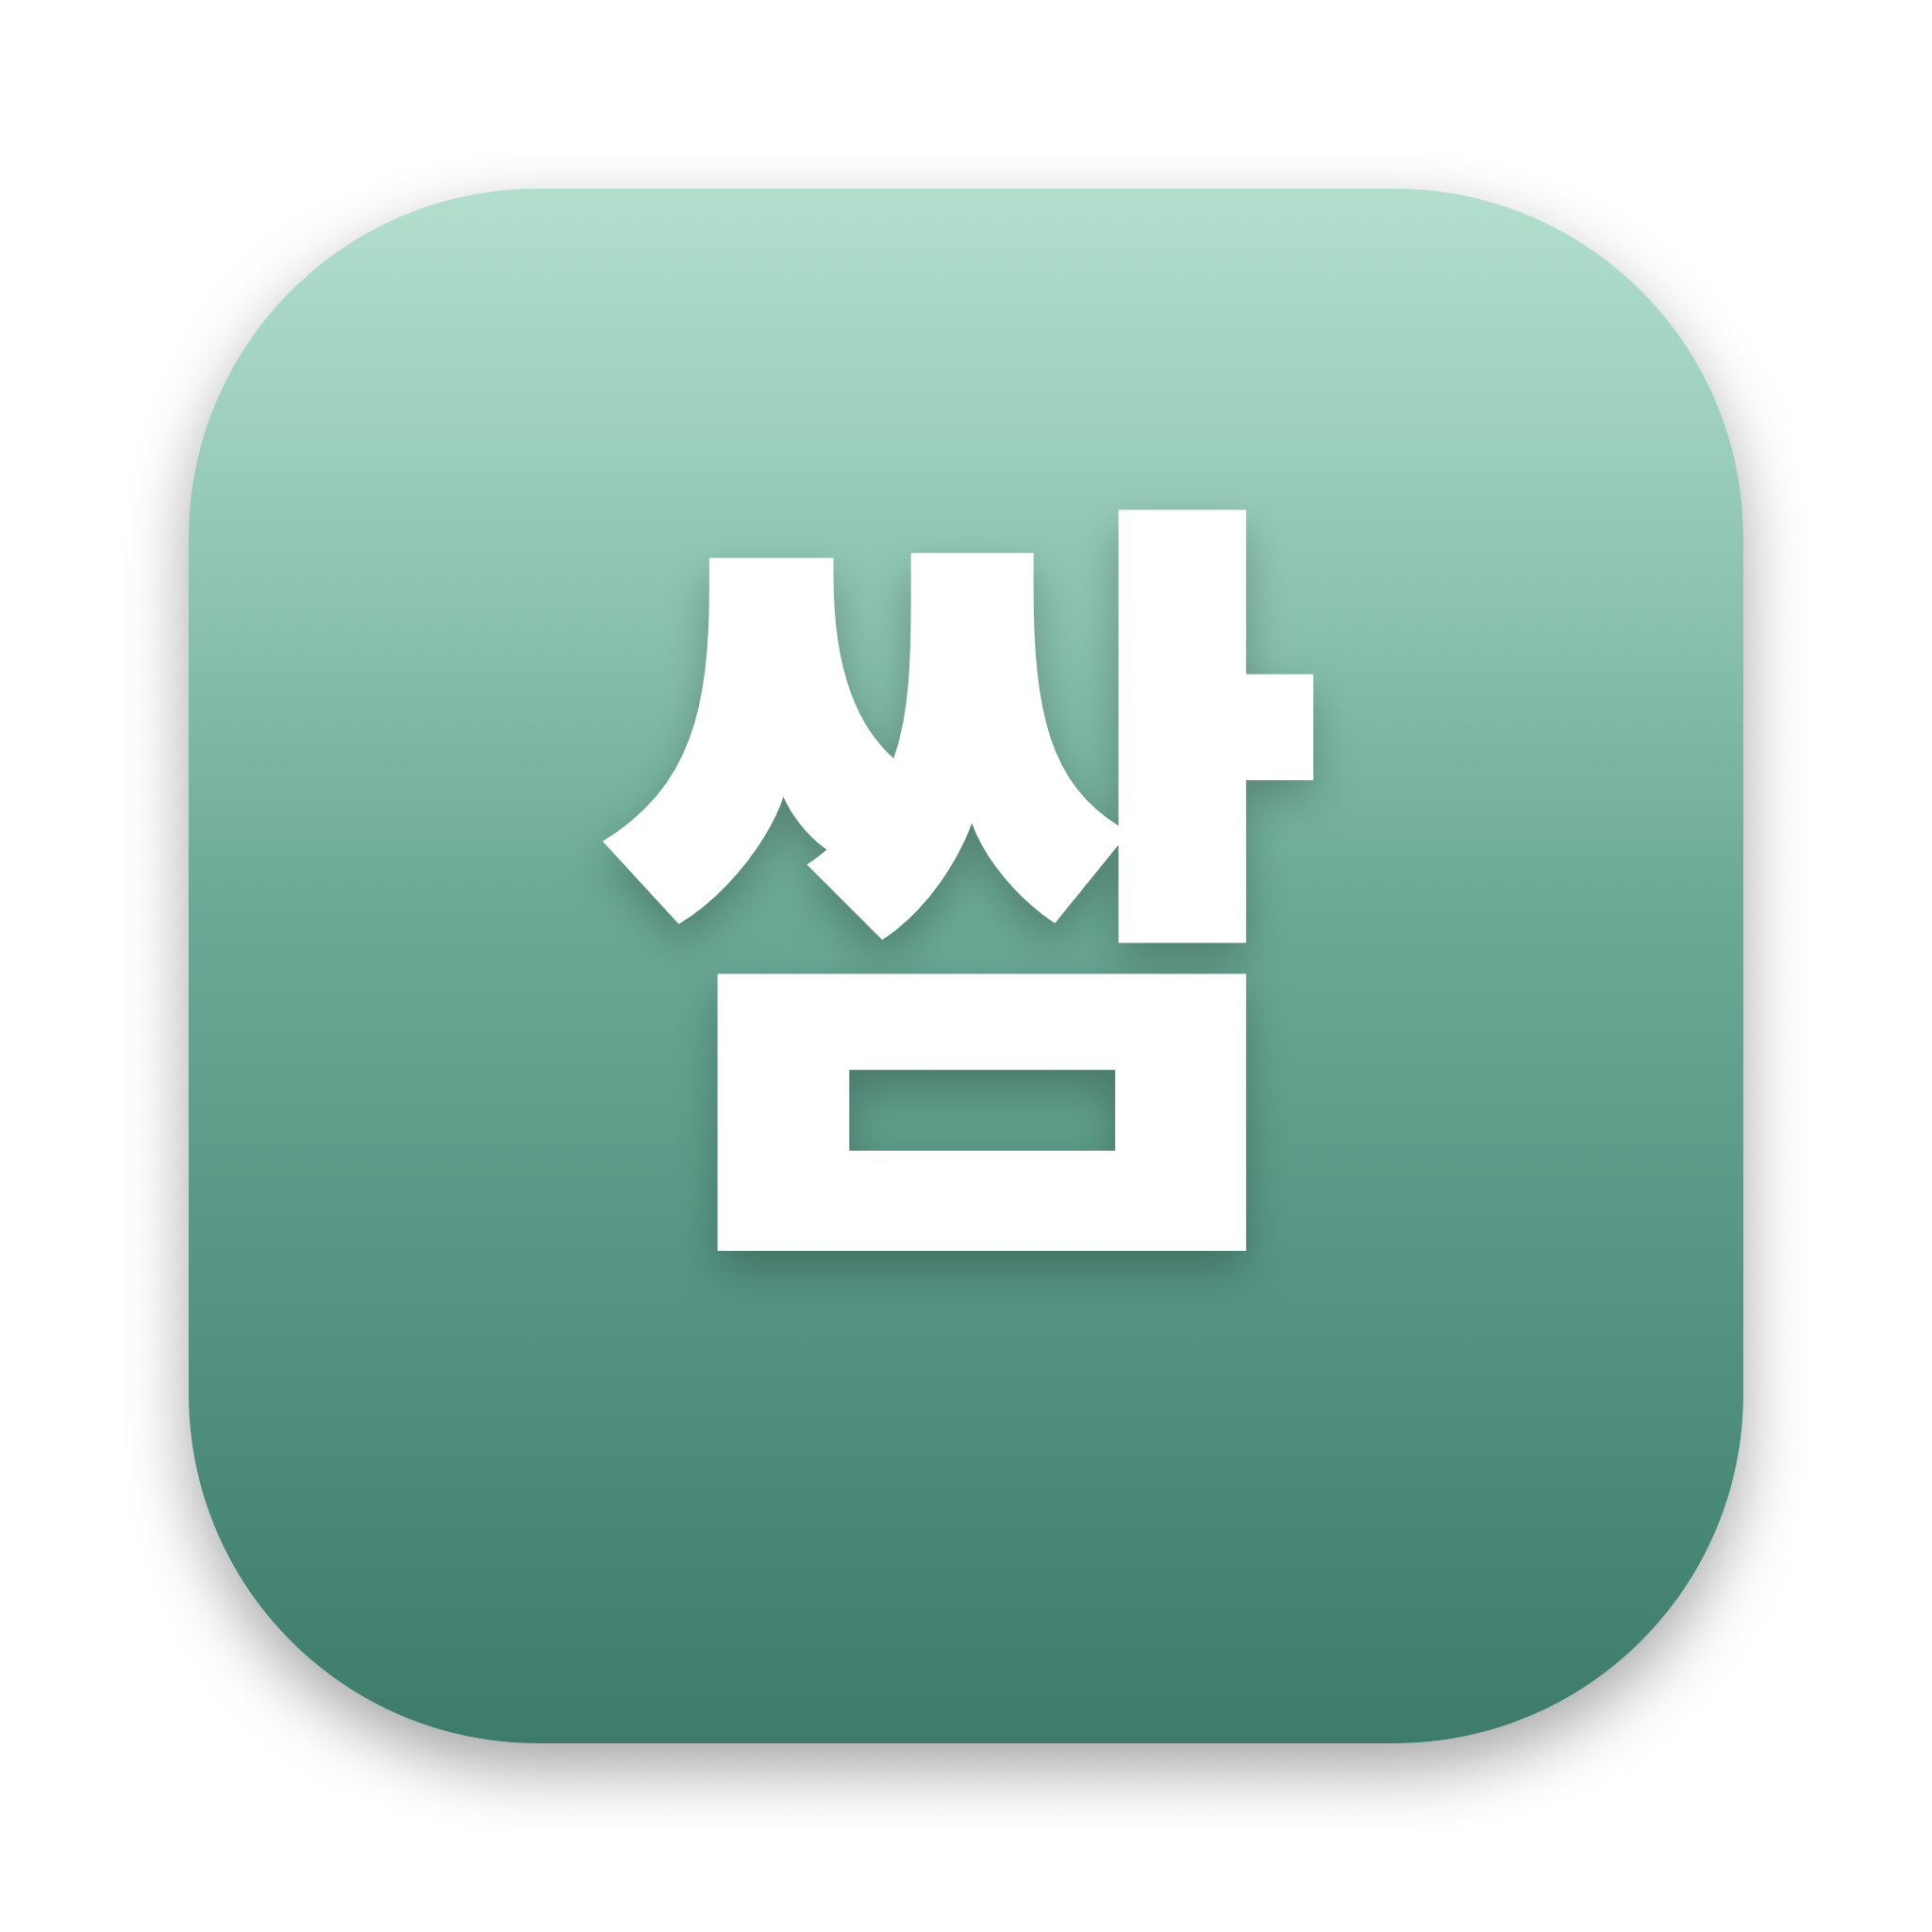
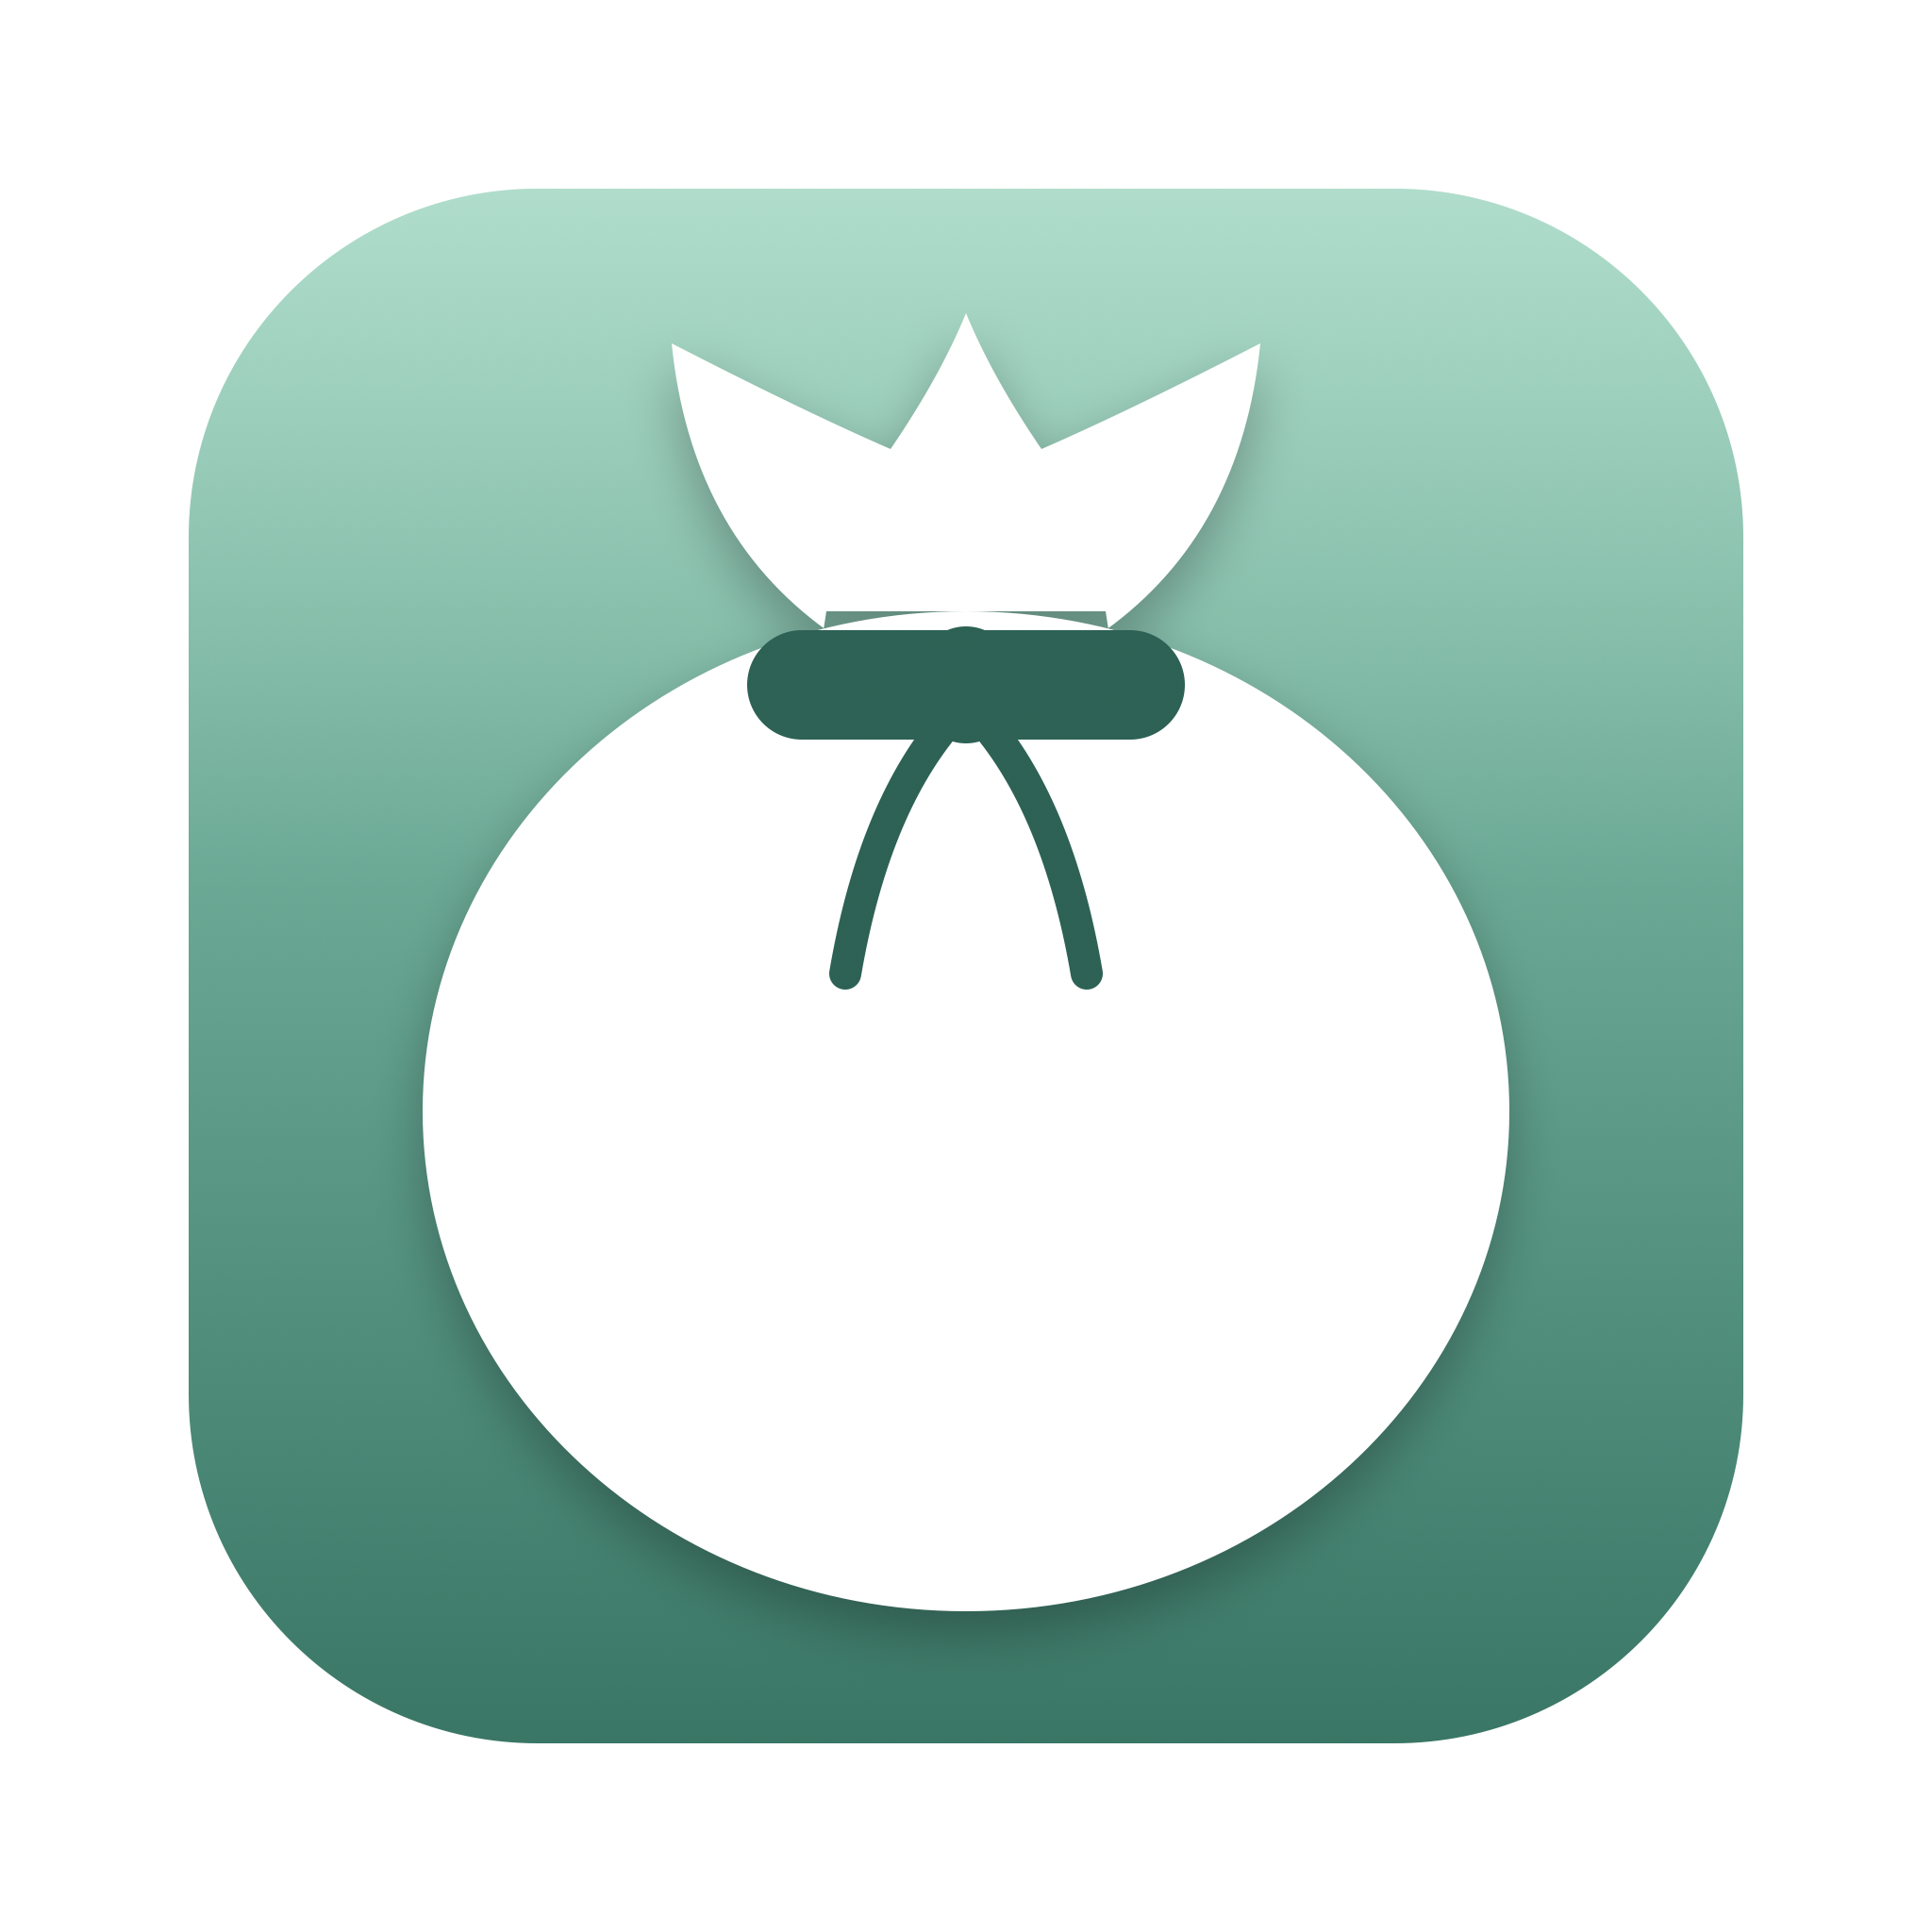
feat: 복주머니 아이콘 리디자인 + 메뉴바 커스텀 글리프 + /Applications 설치
- 앱 아이콘을 '쌈' 글자에서 복주머니 실루엣으로 교체 (흰 주머니 + 진청자 매듭끈)
- 메뉴바 아이콘: 동일 실루엣의 코드 드로잉 템플릿 이미지 (라이트/다크 자동)
- bundle.sh 가 빌드 후 /Applications/쌈지.app 으로 자동 설치

Changed region(s): [[0.2188, 0.1562, 0.7812, 0.8438], [0.0625, 0.2188, 0.9375, 0.9375]]

diff --git a/scripts/make-icon.swift b/scripts/make-icon.swift
@@ -1,34 +1,47 @@
 #!/usr/bin/swift
-// 쌈지 앱 아이콘 생성기 — 청자색 그라디언트 스퀘어클 + "쌈"
-// 사용: swift scripts/make-icon.swift  (Assets/AppIcon.icns 생성)
+// 쌈지 앱 아이콘 생성기 — 청자색 그라디언트 스퀘어클 + 흰 복주머니(쌈지) 실루엣
+// 사용: swift scripts/make-icon.swift  (Assets/icon_1024.png 생성)
 import AppKit
 
 let canvas: CGFloat = 1024
+
+/// 복주머니 몸통 + 주름 경로 (좌표계: y-up, 1024 기준)
+func pouchBodyPath() -> CGMutablePath {
+    let path = CGMutablePath()
+    // 몸통: 넉넉한 타원
+    path.addEllipse(in: CGRect(x: 224, y: 170, width: 576, height: 530))
+    // 목 연결부
+    path.move(to: CGPoint(x: 424, y: 610))
+    path.addLine(to: CGPoint(x: 600, y: 610))
+    path.addLine(to: CGPoint(x: 586, y: 700))
+    path.addLine(to: CGPoint(x: 438, y: 700))
+    path.closeSubpath()
+    // 입구 주름 (다섯 갈래 부채)
+    path.move(to: CGPoint(x: 438, y: 690))
+    path.addQuadCurve(to: CGPoint(x: 356, y: 842), control: CGPoint(x: 366, y: 742))
+    path.addQuadCurve(to: CGPoint(x: 472, y: 786), control: CGPoint(x: 426, y: 806))
+    path.addQuadCurve(to: CGPoint(x: 512, y: 858), control: CGPoint(x: 498, y: 824))
+    path.addQuadCurve(to: CGPoint(x: 552, y: 786), control: CGPoint(x: 526, y: 824))
+    path.addQuadCurve(to: CGPoint(x: 668, y: 842), control: CGPoint(x: 598, y: 806))
+    path.addQuadCurve(to: CGPoint(x: 586, y: 690), control: CGPoint(x: 658, y: 742))
+    path.closeSubpath()
+    return path
+}
 
 func renderIcon() -> NSImage {
     let image = NSImage(size: NSSize(width: canvas, height: canvas))
     image.lockFocus()
     guard let ctx = NSGraphicsContext.current?.cgContext else { fatalError("no context") }
 
-    // 최신 macOS 아이콘 관례: 캔버스보다 살짝 작은 라운드 사각형
     let rect = CGRect(x: 100, y: 100, width: canvas - 200, height: canvas - 200)
     let squircle = CGPath(roundedRect: rect, cornerWidth: 185, cornerHeight: 185, transform: nil)
-
-    // 그림자
-    ctx.saveGState()
-    ctx.setShadow(offset: CGSize(width: 0, height: -14), blur: 36,
-                  color: NSColor.black.withAlphaComponent(0.35).cgColor)
-    ctx.addPath(squircle)
-    ctx.setFillColor(NSColor.white.cgColor)
-    ctx.fillPath()
-    ctx.restoreGState()
 
     ctx.addPath(squircle)
     ctx.clip()
 
     // 청자색 수직 그라디언트
     let top = NSColor(calibratedRed: 0.45, green: 0.80, blue: 0.67, alpha: 1)
-    let bottom = NSColor(calibratedRed: 0.11, green: 0.42, blue: 0.34, alpha: 1)
+    let bottom = NSColor(calibratedRed: 0.10, green: 0.40, blue: 0.32, alpha: 1)
     let gradient = CGGradient(
         colorsSpace: CGColorSpaceCreateDeviceRGB(),
         colors: [top.cgColor, bottom.cgColor] as CFArray,
@@ -41,10 +54,10 @@ func renderIcon() -> NSImage {
         options: []
     )
 
-    // 상단 하이라이트 (유리 느낌)
+    // 상단 하이라이트
     let highlight = CGGradient(
         colorsSpace: CGColorSpaceCreateDeviceRGB(),
-        colors: [NSColor.white.withAlphaComponent(0.28).cgColor,
+        colors: [NSColor.white.withAlphaComponent(0.25).cgColor,
                  NSColor.white.withAlphaComponent(0.0).cgColor] as CFArray,
         locations: [0, 1]
     )!
@@ -55,22 +68,36 @@ func renderIcon() -> NSImage {
         options: []
     )
 
-    // "쌈" 글자 (미세한 그림자)
-    let font = NSFont(name: "AppleSDGothicNeo-Heavy", size: 440)
-        ?? NSFont(name: "AppleSDGothicNeo-Bold", size: 440)
-        ?? NSFont.boldSystemFont(ofSize: 440)
-    let shadow = NSShadow()
-    shadow.shadowColor = NSColor.black.withAlphaComponent(0.25)
-    shadow.shadowOffset = NSSize(width: 0, height: -10)
-    shadow.shadowBlurRadius = 24
-    let attributes: [NSAttributedString.Key: Any] = [
-        .font: font,
-        .foregroundColor: NSColor.white,
-        .shadow: shadow,
-    ]
-    let text = NSAttributedString(string: "쌈", attributes: attributes)
-    let textSize = text.size()
-    text.draw(at: NSPoint(x: (canvas - textSize.width) / 2, y: (canvas - textSize.height) / 2 + 14))
+    // 주머니 그림자 + 흰 실루엣
+    ctx.saveGState()
+    ctx.setShadow(offset: CGSize(width: 0, height: -12), blur: 30,
+                  color: NSColor.black.withAlphaComponent(0.28).cgColor)
+    ctx.addPath(pouchBodyPath())
+    ctx.setFillColor(NSColor.white.cgColor)
+    ctx.fillPath()
+    ctx.restoreGState()
+
+    // 묶는 끈 (진한 청자색 밴드 + 매듭 + 늘어진 끈)
+    let deep = NSColor(calibratedRed: 0.07, green: 0.32, blue: 0.26, alpha: 1)
+    ctx.setFillColor(deep.cgColor)
+    let band = CGPath(roundedRect: CGRect(x: 396, y: 632, width: 232, height: 58),
+                      cornerWidth: 29, cornerHeight: 29, transform: nil)
+    ctx.addPath(band)
+    ctx.fillPath()
+
+    // 매듭
+    ctx.fillEllipse(in: CGRect(x: 484, y: 630, width: 56, height: 62))
+
+    // 늘어진 끈 두 가닥
+    ctx.setStrokeColor(deep.cgColor)
+    ctx.setLineWidth(17)
+    ctx.setLineCap(.round)
+    ctx.move(to: CGPoint(x: 498, y: 636))
+    ctx.addQuadCurve(to: CGPoint(x: 448, y: 508), control: CGPoint(x: 462, y: 590))
+    ctx.strokePath()
+    ctx.move(to: CGPoint(x: 526, y: 636))
+    ctx.addQuadCurve(to: CGPoint(x: 576, y: 508), control: CGPoint(x: 562, y: 590))
+    ctx.strokePath()
 
     image.unlockFocus()
     return image
@@ -82,8 +109,6 @@ guard let tiff = icon.tiffRepresentation,
       let png = rep.representation(using: .png, properties: [:]) else {
     fatalError("PNG 인코딩 실패")
 }
-
-let outDir = URL(fileURLWithPath: "Assets/AppIcon.iconset", isDirectory: true)
-try? FileManager.default.createDirectory(at: outDir, withIntermediateDirectories: true)
+try? FileManager.default.createDirectory(atPath: "Assets", withIntermediateDirectories: true)
 try png.write(to: URL(fileURLWithPath: "Assets/icon_1024.png"))
-print("✅ Assets/icon_1024.png 생성")
+print("✅ Assets/icon_1024.png 생성 (복주머니)")

diff --git a/Sources/Ssamji/MenuBarIcon.swift b/Sources/Ssamji/MenuBarIcon.swift
@@ -1,0 +1,49 @@
+import AppKit
+
+/// 메뉴바용 복주머니 템플릿 아이콘 — scripts/make-icon.swift 의 실루엣과 동일한 경로 (수정 시 함께 갱신)
+@MainActor
+enum MenuBarIcon {
+    static let image: NSImage = {
+        let image = NSImage(size: NSSize(width: 18, height: 18), flipped: false) { rect in
+            guard let ctx = NSGraphicsContext.current?.cgContext else { return false }
+            let scale = rect.width / 1024
+            ctx.scaleBy(x: scale, y: scale)
+
+            let path = CGMutablePath()
+            // 몸통
+            path.addEllipse(in: CGRect(x: 224, y: 140, width: 576, height: 530))
+            // 목 연결부
+            path.move(to: CGPoint(x: 424, y: 590))
+            path.addLine(to: CGPoint(x: 600, y: 590))
+            path.addLine(to: CGPoint(x: 586, y: 700))
+            path.addLine(to: CGPoint(x: 438, y: 700))
+            path.closeSubpath()
+            // 입구 주름
+            path.move(to: CGPoint(x: 438, y: 690))
+            path.addQuadCurve(to: CGPoint(x: 356, y: 862), control: CGPoint(x: 366, y: 742))
+            path.addQuadCurve(to: CGPoint(x: 472, y: 796), control: CGPoint(x: 426, y: 816))
+            path.addQuadCurve(to: CGPoint(x: 512, y: 878), control: CGPoint(x: 498, y: 844))
+            path.addQuadCurve(to: CGPoint(x: 552, y: 796), control: CGPoint(x: 526, y: 844))
+            path.addQuadCurve(to: CGPoint(x: 668, y: 862), control: CGPoint(x: 598, y: 816))
+            path.addQuadCurve(to: CGPoint(x: 586, y: 690), control: CGPoint(x: 658, y: 742))
+            path.closeSubpath()
+
+            ctx.addPath(path)
+            ctx.setFillColor(NSColor.black.cgColor)
+            ctx.fillPath()
+
+            // 끈 밴드는 펀치아웃으로 표현 (템플릿은 단색이라 구멍이 곧 디테일)
+            ctx.setBlendMode(.destinationOut)
+            let band = CGPath(
+                roundedRect: CGRect(x: 380, y: 600, width: 264, height: 86),
+                cornerWidth: 43, cornerHeight: 43, transform: nil
+            )
+            ctx.addPath(band)
+            ctx.fillPath()
+
+            return true
+        }
+        image.isTemplate = true
+        return image
+    }()
+}

diff --git a/Sources/Ssamji/SsamjiApp.swift b/Sources/Ssamji/SsamjiApp.swift
@@ -6,9 +6,11 @@ struct SsamjiApp: App {
     @StateObject private var state = AppState()
 
     var body: some Scene {
-        MenuBarExtra("쌈지", systemImage: "doc.on.clipboard") {
+        MenuBarExtra {
             StatusMenuView()
                 .environmentObject(state)
+        } label: {
+            Image(nsImage: MenuBarIcon.image)
         }
         .menuBarExtraStyle(.window)
     }